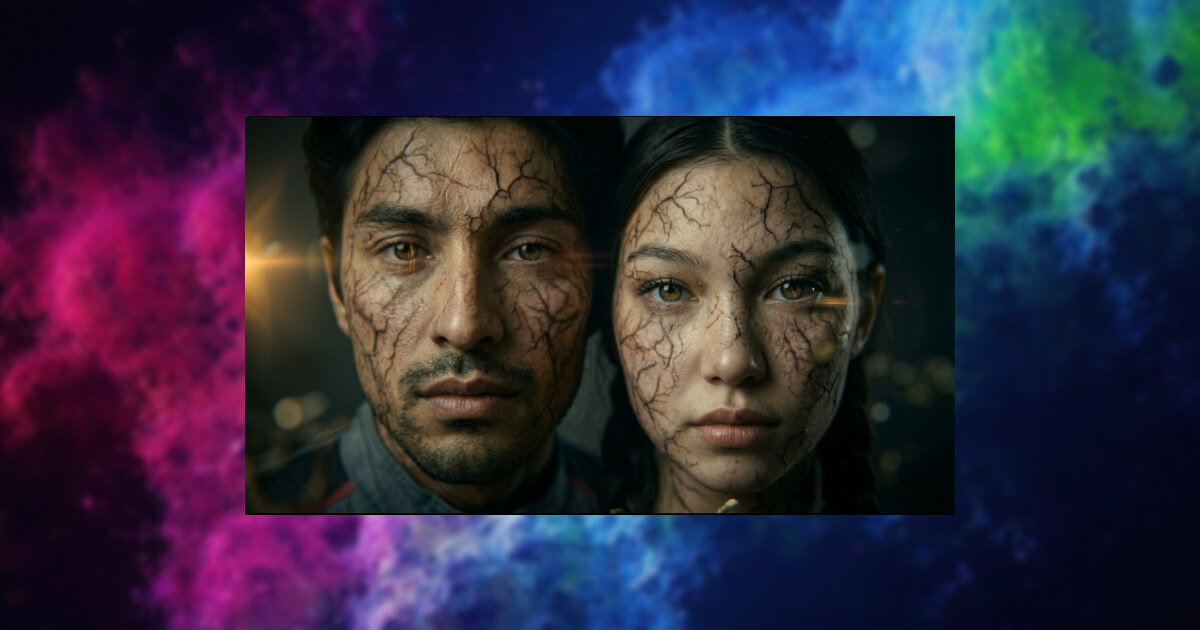
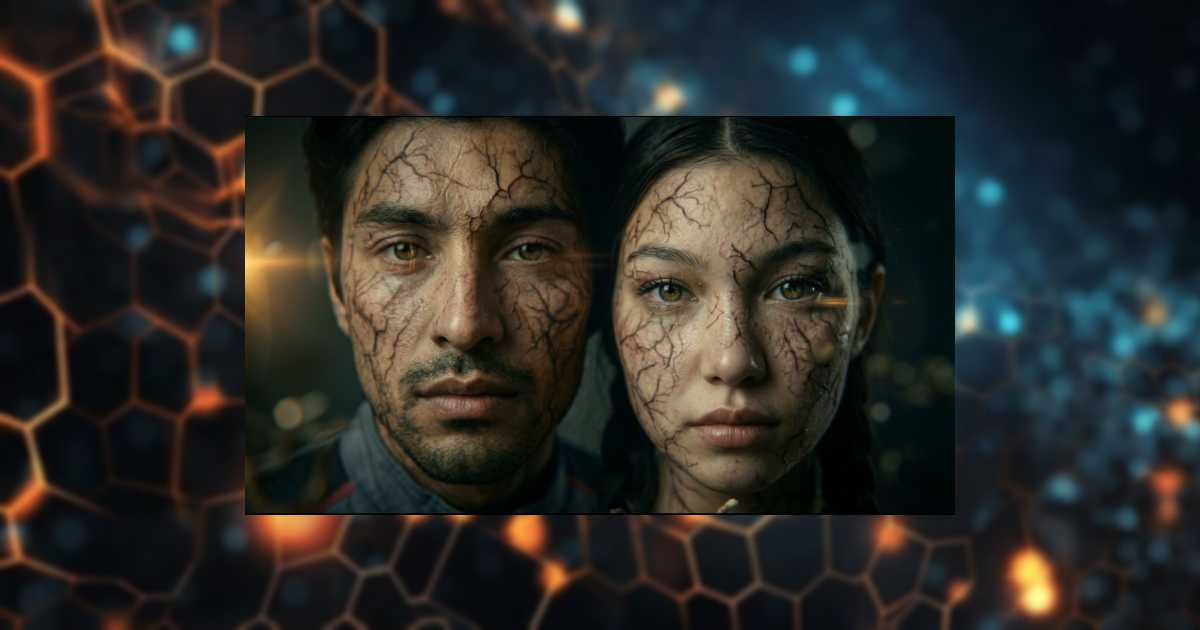
update poll image

diff --git a/src/app/api/polls/[id]/image/route.jsx b/src/app/api/polls/[id]/image/route.jsx
@@ -180,17 +180,16 @@ export async function GET(request, { params }) {
               alignItems: "center",
               marginBottom: 40,
               color: "#C2FF02",
-              fontSize: 22,
+              fontSize: 40,
               lineHeight: 1.5,
               letterSpacing: "0.05em",
               textShadow: "0 0 10px rgba(0,0,0,0.8)",
               textAlign: "center",
               textTransform: "uppercase",
+              maxWidth: 600,
             }}
           >
-            <div>A DEADLY PATHOGEN THREATENS TO OVERRUN THE</div>
-            <div>NATION CITY OF LIONARA. JOIN THE RESISTANCE</div>
-            <div>OR EMBRACE THE EVOLUTION.</div>
+            <div>{pollQuestion}</div>
           </div>
 
           {/* Central Card */}
@@ -220,25 +219,13 @@ export async function GET(request, { params }) {
                 display: "flex",
                 flexDirection: "column",
                 alignItems: "center",
-                justifyContent: "space-between",
+                justifyContent: "center",
                 width: "100%",
                 height: "100%",
-                padding: "20px 0",
                 position: "relative",
                 zIndex: 10,
               }}
             >
-              <div
-                style={{
-                  display: "flex",
-                  color: "white",
-                  fontSize: 20,
-                  letterSpacing: "0.05em",
-                  fontFamily: "sans-serif",
-                }}
-              >
-                Total Votes: {totalVotes.toLocaleString()}
-              </div>
               <div
                 style={{
                   display: "flex",
@@ -252,17 +239,6 @@ export async function GET(request, { params }) {
               >
                 <span>SPORE</span>
                 <span>FALL</span>
-              </div>
-              <div
-                style={{
-                  display: "flex",
-                  color: "white",
-                  fontSize: 20,
-                  letterSpacing: "0.05em",
-                  fontFamily: "Gotham, sans-serif",
-                }}
-              >
-                #ResistOrEvolve
               </div>
             </div>
           </div>

diff --git a/src/app/(pages)/result/ResultContent.jsx b/src/app/(pages)/result/ResultContent.jsx
@@ -304,18 +304,15 @@ below. 👇
     try {
       const shareUrl = getUTMUrl("direct_copy");
 
-      const fullShareText = `SE Asia’s 1st Gen-AI sci-fi micro-drama just
-dropped the pen. ✍
+      const fullShareText = `✊🏻 Resist or 🦅 Evolve?
 
-Spore Fall wants YOU to decide:
-✊🏻 Resist
-🦅 Evolve
+Southeast Asia's 1st Gen-AI sci-fi micro-drama, Spore Fall, is handing the pen to the audience. You decide what happens next.
 
-Vote with me before it closes → ${shareUrl}
-First 1,000 unlock secret drops.
+🎁 First 1,000 voters unlock exclusive secret drops.
 
-Tag someone taking the red pill or blue pill
-below. 👇
+Vote now & shape the story 👇
+
+${shareUrl}
 
 #ResistOrEvolve #SporeFall`;
 
